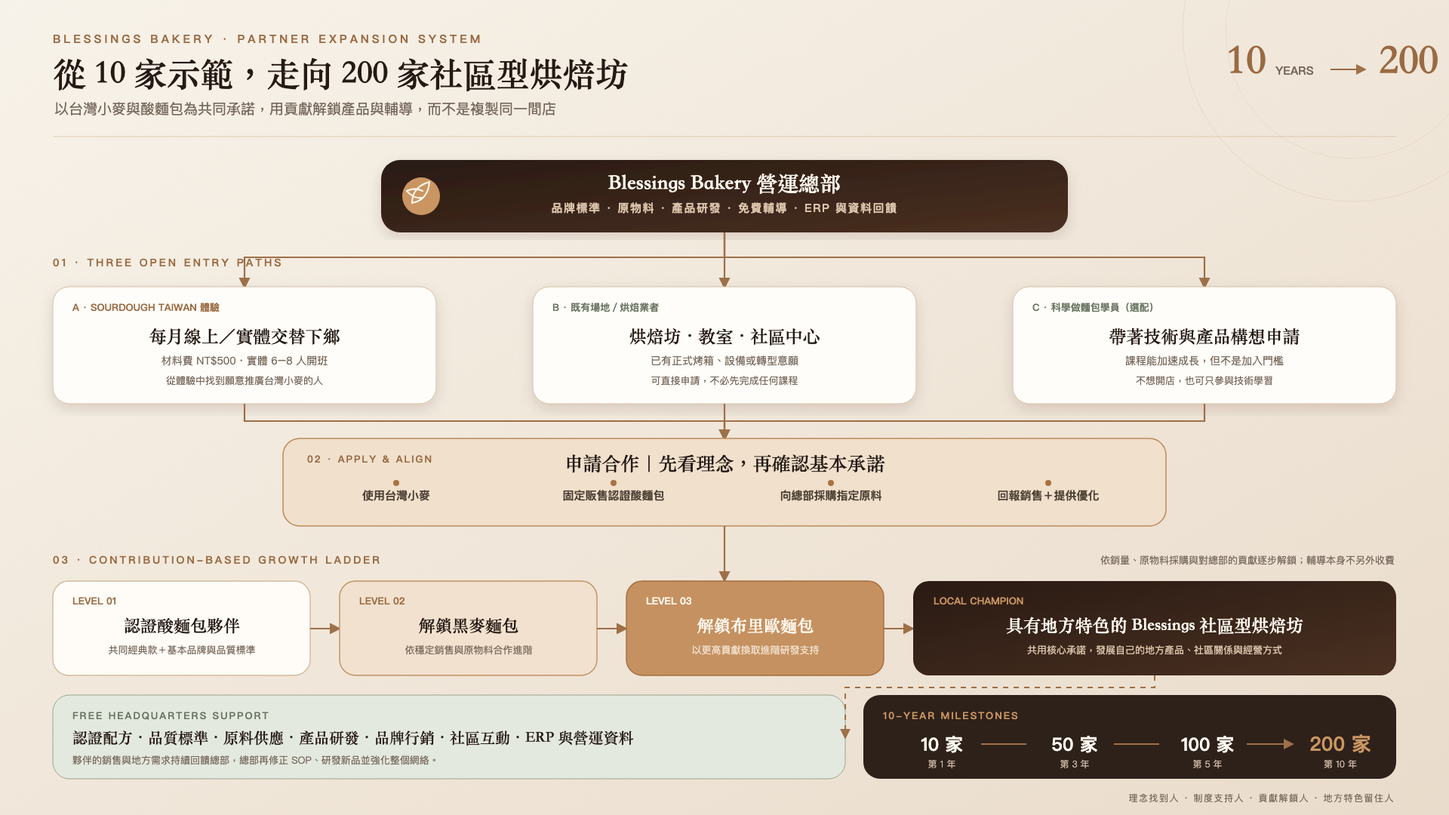
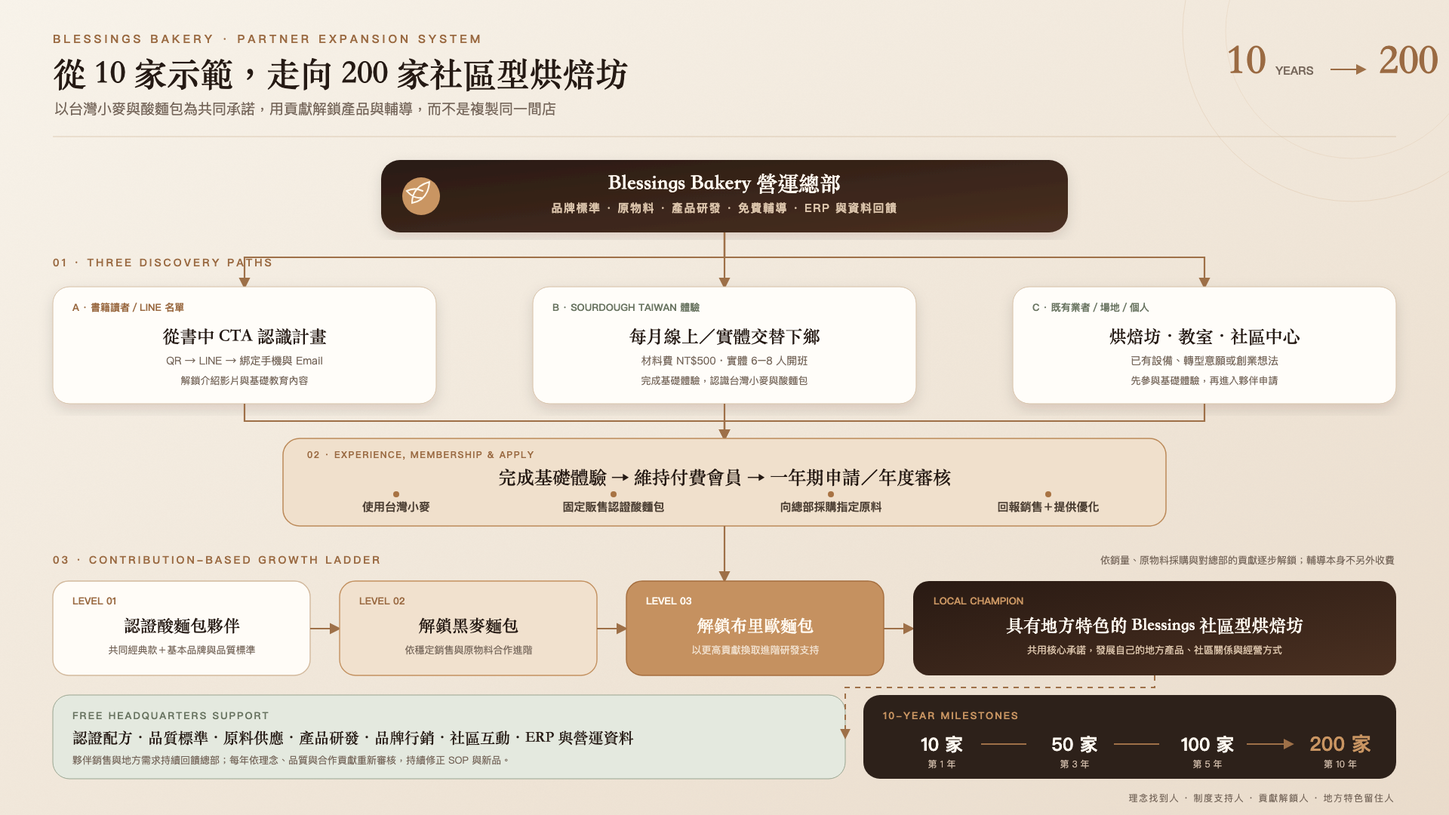
embed AI proposal maps and sync proposal

diff --git a/index.html b/index.html
@@ -4,7 +4,7 @@
   <meta charset="utf-8">
   <meta name="viewport" content="width=device-width,initial-scale=1">
   <title>Blessings Bakery｜一年期知識事業共建提案</title>
-  <meta name="description" content="Blessings Bakery 一年期內容、會員與課程事業共建提案">
+  <meta name="description" content="Blessings Bakery 一年期公開內容、兩級會員與 Sourdough Taiwan 社區工坊共建提案">
   <link rel="stylesheet" href="styles.css">
 </head>
 <body class="proposal-page">
@@ -16,7 +16,7 @@
     <div class="wrap hero-content">
       <div class="mono light">BLESSINGS BAKERY × SAM KNOWLEDGE POWER</div>
       <h1>從一顆麵包<br><em>長成一門事業</em></h1>
-      <p class="hero-lede">把產品、顧客信任與烘焙專業，逐步建成內容、會員、課程與高階服務可以共同運作的知識事業。</p>
+      <p class="hero-lede">把產品、顧客信任與烘焙專業，逐步建成公開內容、兩級會員與社區型烘焙坊可以共同成長的知識事業。</p>
       <div class="actions"><a class="btn fill light-btn" href="#starting-point">查看共建藍圖</a><a class="btn ghost-light" href="#investment">查看合作方案</a></div>
     </div>
     <div class="hero-index"><span>一年期知識事業共建</span><span>2026.10 — 2027.09</span></div>
@@ -28,29 +28,38 @@
   </div></section>
 
   <section class="dark-section" id="method"><div class="wrap">
-    <div class="section-head"><div><div class="mono light">02 / THE METHOD</div><h2>一個月度主題，<br>長出完整的<br>學習與轉換路徑。</h2></div><p>公開內容負責讓更多人知道，免費教育建立信任，會員承接持續發問，入門與進階課程則提供可以被完成的學習成果。</p></div>
-    <div class="method-grid"><article><b>01</b><h3>月度內容母題</h3><p>每月以一個主題統整旗艦長片、4 支短影音、4 則社群圖文與 1 篇 SEO，建立公開流量與搜尋資產。</p></article><article><b>02</b><h3>會員深度內容</h3><p>每月 6 支純會員影片、旗艦延伸內容與一次直播問答，讓觀眾從知道走向持續學習與發問。</p></article><article><b>03</b><h3>課程與夥伴分流</h3><p>快樂做麵包往科學做麵包深化；Sourdough Taiwan 體驗則尋找推廣台灣小麥的社區工坊夥伴。</p></article></div>
+    <div class="section-head"><div><div class="mono light">02 / THE METHOD</div><h2>兩條路線，<br>共用一套內容<br>與會員引擎。</h2></div><p>第一條路線把既有課程重整進兩級 YouTube 會員，累積可持續訂閱收入；第二條路線以 Sourdough Taiwan 推廣台灣小麥，培養社區型烘焙坊。</p></div>
+    <div class="method-grid"><article><b>01</b><h3>書籍與公開內容</h3><p>書籍 QR Code、旗艦長片、4 支短影音、4 則社群圖文與 SEO，把新觀眾帶進 LINE／Email 與 YouTube。</p></article><article><b>02</b><h3>兩級會員核心</h3><p>第一級觀看課程與會員內容；第二級取得直播互動與提問權。價格暫定 250／400 元，正式上線前再確認。</p></article><article><b>03</b><h3>理念夥伴路線</h3><p>Sourdough Taiwan 體驗連到付費會員、申請與年度審核，再以採購、銷售及回饋換取總部輔導與產品解鎖。</p></article></div>
   </div></section>
 
-  <section class="image-story"><div class="wrap image-story-grid"><figure><img src="assets/bread-craft.jpg" alt="職人正在整形酸種麵團" loading="lazy"></figure><div><div class="mono">03 / THE COLLABORATION</div><h2>專業由 Blessings 定義，<br>事業系統由我們共建。</h2><p>就像麵包需要時間發酵，知識事業也需要清楚分工。Sam Knowledge Power 負責內容、影音、課程製作、SEO 與名單經營；Blessings Bakery 負責專業確認、銷售自動化、網站上架維護與 ERP 建構。</p><div class="role-list"><div><b>Blessings Bakery</b><span>烘焙專業・銷售自動化・網站・ERP・工坊營運</span></div><div><b>Sam Knowledge Power</b><span>短影音・旗艦片・會員影片・課程・SEO・LINE／Email</span></div></div></div></div></section>
+  <section class="image-story"><div class="wrap image-story-grid"><figure><img src="assets/bread-craft.jpg" alt="職人正在整形酸種麵團" loading="lazy"></figure><div><div class="mono">03 / THE COLLABORATION</div><h2>專業由 Blessings 定義，<br>會員與推廣系統共同建立。</h2><p>Sam Knowledge Power 負責公開內容、既有課程翻拍、會員內容整理、SEO 與名單經營；Blessings Bakery 負責專業確認、LINE 綁定與網站解鎖、自動化、ERP，以及會員與工坊實際營運。</p><div class="role-list"><div><b>Blessings Bakery</b><span>烘焙專業・會員營運・網站解鎖・ERP・工坊制度</span></div><div><b>Sam Knowledge Power</b><span>短影音・旗艦片・課程翻拍・SEO・LINE／Email</span></div></div></div></div></section>
 
   <section id="roadmap"><div class="wrap">
-    <div class="section-head"><div><div class="mono">04 / 12 MONTH ROADMAP</div><h2>一年走完啟動、<br>測試、深化與移交。</h2></div><p>2026 年 9 月先完成無費用準備期。正式合作從 2026 年 10 月開始，前六個月建立內容與會員測試，後六個月深化課程並完成營運移交。</p></div>
-    <div class="timeline"><article><div class="mono">M0 · 2026.09</div><h3>準備與交接</h3><p>帳號資料、現況基線、內容母題、會員架構、名單入口與第一季排程；不計正式交付。</p></article><article><div class="mono">M1–M3 · 2026.10–12</div><h3>內容與會員啟動</h3><p>建立每月 1 支旗艦、4 支短影音、4 則社群、1 篇 SEO、6 支會員影片與一次直播節奏，年底挑戰 40 位會員。</p></article><article><div class="mono">M4–M6 · 2027.01–03</div><h3>產品與體驗驗證</h3><p>每季推出一門「3 天做出＿＿麵包」，並以線上／實體交替舉辦 Sourdough Taiwan 體驗課。</p></article><article><div class="mono">M7–M12 · 2027.04–09</div><h3>深化與夥伴培育</h3><p>持續會員與科學麵包，建立首批社區型工坊申請、認證、銷售回饋與產品解鎖制度。</p></article></div>
+    <div class="section-head"><div><div class="mono">04 / 12 MONTH ROADMAP</div><h2>一年走完啟動、<br>測試、深化與移交。</h2></div><p>2026 年 9 月先完成無費用準備期。正式合作從 2026 年 10 月開始，前六個月完成既有課程翻拍與會員測試，後六個月深化會員內容、夥伴制度並完成營運移交。</p></div>
+    <div class="timeline"><article><div class="mono">M0 · 2026.09</div><h3>準備與交接</h3><p>盤點既有課程、會員權益、舊學員名單、書籍 QR、LINE 綁定與網站解鎖流程；不計正式交付。</p></article><article><div class="mono">M1–M3 · 2026.10–12</div><h3>幸福烘焙優先翻拍</h3><p>先完成既有幸福烘焙內容翻拍，同步啟動月度公開內容、兩級會員測試與第一場 Sourdough Taiwan 體驗。</p></article><article><div class="mono">M4–M6 · 2027.01–03</div><h3>會員內容庫成形</h3><p>持續整理既有課程進會員專區，驗證 250／400 元分級、觀看、提問、續訂與舊學員權益銜接。</p></article><article><div class="mono">M7–M12 · 2027.04–09</div><h3>夥伴制度與複利驗證</h3><p>建立付費會員申請門檻、年度合作審核、原料採購、銷售回報與產品解鎖；收益閉環於後續會議逐步定案。</p></article></div>
   </div></section>
 
   <section class="cream-section" id="scope"><div class="wrap">
-    <div class="section-head"><div><div class="mono">05 / SCOPE</div><h2>全年正式交付</h2></div><p>每月由同一個知識母題展開公開、搜尋、會員與課程內容，所有產出共同服務知名度、會員、課程收入與夥伴名單。</p></div>
-    <div class="deliverables"><div><strong>48</strong><span>支正式短影音</span><small>每月固定 4 支</small></div><div><strong>48</strong><span>則社群圖文</span><small>每月固定 4 則</small></div><div><strong>12</strong><span>支公開旗艦長片</span><small>每月固定 1 支</small></div><div><strong>72</strong><span>支純會員影片</span><small>每月固定 6 支</small></div><div><strong>12</strong><span>次會員直播</span><small>每月一次，可即時發問</small></div><div><strong>12</strong><span>篇網站／SEO 文稿</span><small>每月固定 1 篇</small></div><div><strong>4</strong><span>門入門課開發</span><small>每季一門「3 天做出＿＿麵包」</small></div><div><strong>12</strong><span>個集中拍攝工作日</span><small>原則每月 1 日</small></div></div>
+    <div class="section-head"><div><div class="mono">05 / SCOPE</div><h2>全年正式交付</h2></div><p>交付重點由「持續開新課」改為「重整既有課程、做大會員內容庫」。會員影片總量與完整翻拍清單列為「待下一次會議確認」，不先納入固定承諾。</p></div>
+    <div class="deliverables"><div><strong>48</strong><span>支正式短影音</span><small>每月固定 4 支，完整腳本製作</small></div><div><strong>48</strong><span>則社群圖文</span><small>每月固定 4 則</small></div><div><strong>12</strong><span>支公開旗艦長片</span><small>每月固定 1 支</small></div><div><strong>6</strong><span>篇網站／SEO 文稿</span><small>全年基準，有合適題目再增加</small></div><div><strong>12</strong><span>次會員直播協作</span><small>每月一次；提問權依會員級別</small></div><div><strong>12</strong><span>場 Sourdough 體驗</span><small>線上／實體月份交替</small></div><div><strong>1</strong><span>套幸福烘焙翻拍</span><small>既有約 5–6 堂優先盤點製作</small></div><div><strong>12</strong><span>個集中拍攝工作日</span><small>原則每月 1 日</small></div></div>
   </div></section>
 
   <section id="assets"><div class="wrap">
     <div class="section-head"><div><div class="mono">06 / BUSINESS ASSETS</div><h2>一年後留下的，<br>不只是一批內容。</h2></div><p>真正能累積的是客戶語言、內容入口、會員學習證據、課程資產與一套可持續運作的執行方法。</p></div>
-    <div class="asset-list"><article><span>01</span><h3>內容與搜尋入口</h3><p>十二個月度主題、旗艦長片、短影音、社群與 SEO 形成可累積的公開資產。</p></article><article><span>02</span><h3>會員內容庫</h3><p>72 支純會員影片、12 次直播問答與旗艦延伸內容，支撐單一會員方案。</p></article><article><span>03</span><h3>課程產品階梯</h3><p>每季一門入門課、YouTube 會員與科學做麵包，形成從 3,500 元到 2–3 萬元的學習路徑。</p></article><article><span>04</span><h3>社區工坊系統</h3><p>Sourdough Taiwan 體驗、理念申請、認證酸麵包、貢獻解鎖與十年 200 家里程碑。</p></article></div>
+    <div class="asset-list"><article><span>01</span><h3>內容與搜尋入口</h3><p>十二個月度主題、旗艦長片、短影音、社群與 SEO 形成可累積的公開資產。</p></article><article><span>02</span><h3>兩級會員內容庫</h3><p>既有課程翻拍、會員深度內容與直播問答，讓收入逐步從單次買斷轉向持續訂閱。</p></article><article><span>03</span><h3>書籍名單與解鎖流程</h3><p>QR Code、LINE 電話／Email 綁定、網站影片解鎖與 YouTube 導流形成可追蹤入口。</p></article><article><span>04</span><h3>社區工坊系統</h3><p>Sourdough Taiwan 體驗、付費會員、年度申請審核、產品解鎖與十年 200 家里程碑。</p></article></div>
+  </div></section>
+
+  <section class="cream-section" id="system-maps"><div class="wrap wide-wrap">
+    <div class="section-head"><div><div class="mono">07 / AI-GENERATED SYSTEM MAPS</div><h2>把一年執行與<br>十年願景放在同一張桌上。</h2></div><p>以下兩張大地圖直接嵌入正式提案：第一張呈現書籍、名單、公開內容與兩級會員如何形成一年複利；第二張呈現 Sourdough Taiwan 如何從基礎體驗、付費會員與年度審核，逐步走向 200 家社區型烘焙坊。</p></div>
+    <div class="proposal-map-stack">
+      <figure class="system-map"><a href="assets/year-one-growth-engine.svg" target="_blank" rel="noopener" title="開啟可放大的向量大地圖"><img src="assets/year-one-growth-engine.svg" alt="Blessings Bakery 一年內容與兩級會員複利引擎" loading="lazy"></a><figcaption>MAP 01｜一年內容與會員複利引擎 · 點擊可放大</figcaption></figure>
+      <figure class="system-map"><a href="assets/partner-expansion-system.svg" target="_blank" rel="noopener" title="開啟可放大的向量大地圖"><img src="assets/partner-expansion-system.svg" alt="Blessings Bakery 十年 200 家社區型烘焙坊合作夥伴擴張系統" loading="lazy"></a><figcaption>MAP 02｜合作夥伴擴張系統 · 點擊可放大</figcaption></figure>
+    </div>
+    <div class="actions"><a class="btn fill" href="map.html">開啟完整地圖說明</a></div>
   </div></section>
 
   <section class="dark-section" id="documents"><div class="wrap">
-    <div class="section-head"><div><div class="mono light">07 / COLLABORATION RESOURCES</div><h2>所有承諾，<br>都有一致的查閱依據。</h2></div><p>提案說明方向，服務書定義規格，契約約定權利邊界，進度表記錄每週真實執行。</p></div>
+    <div class="section-head"><div><div class="mono light">08 / COLLABORATION RESOURCES</div><h2>所有承諾，<br>都有一致的查閱依據。</h2></div><p>提案說明方向，服務書定義規格，契約約定權利邊界，進度表記錄每週真實執行。</p></div>
     <div class="resource-grid">
       <article><div class="mono light">01 · AGREEMENT</div><h3>合作契約</h3><p>付款、權利、終止、履約與智慧財產條款。</p><div class="resource-actions"><a href="https://docs.google.com/document/d/1wVQKVJLxvjaqGIQXbnSYuO2jsxhqQz04KYH2okPHIsk/edit" target="_blank" rel="noopener">正式 Google 文件</a><button type="button" data-preview="contract.html" data-preview-title="合作契約">頁內預覽</button></div></article>
       <article><div class="mono light">02 · SPECIFICATION</div><h3>服務說明書</h3><p>交付規格、雙方分工、修改方式與服務邊界。</p><div class="resource-actions"><a href="https://docs.google.com/document/d/10bF_wMkciBFYMOeUycFGjg626X1vX0cDp7h_rVTFyoI/edit" target="_blank" rel="noopener">正式 Google 文件</a><button type="button" data-preview="service.html" data-preview-title="服務說明書">頁內預覽</button></div></article>
@@ -59,9 +68,9 @@
     </div>
   </div></section>
 
-  <section id="boundaries"><div class="wrap"><div class="section-head"><div><div class="mono">08 / CLEAR BOUNDARIES</div><h2>清楚分工，<br>才能一起走完一年。</h2></div><p>承諾完成可控制的策略、製作、發布協作與紀錄；不以觀看、排名、會員、續訂或營收作空泛保證。</p></div><div class="boundary-grid"><article><h3>專業內容共同確認</h3><p>配方、技術與烘焙判斷由 Blessings Bakery 確認後對外發布。</p></article><article><h3>市場結果不空泛保證</h3><p>如實完成交付與紀錄，但平台與購買結果仍受市場條件影響。</p></article><article><h3>正式資產可持續使用</h3><p>費用付清後，品牌可永久商業使用正式成片與最終文稿。</p></article></div></div></section>
+  <section id="boundaries"><div class="wrap"><div class="section-head"><div><div class="mono">09 / CLEAR BOUNDARIES</div><h2>清楚分工，<br>才能一起走完一年。</h2></div><p>承諾完成可控制的策略、製作、發布協作與紀錄；不以觀看、排名、會員、續訂或營收作空泛保證。</p></div><div class="boundary-grid"><article><h3>專業內容共同確認</h3><p>配方、技術與烘焙判斷由 Blessings Bakery 確認後對外發布。</p></article><article><h3>市場結果不空泛保證</h3><p>如實完成交付與紀錄，但平台與購買結果仍受市場條件影響。</p></article><article><h3>正式資產可持續使用</h3><p>費用付清後，品牌可永久商業使用正式成片與最終文稿。</p></article></div></div></section>
 
-  <section class="investment" id="investment"><div class="wrap investment-grid"><div><div class="mono light">09 / INVESTMENT</div><h2>一年期<br>知識事業共建方案</h2></div><div class="price-card"><span>正式合作期間</span><b>2026.10 — 2027.09</b><span>每月服務費</span><strong>NT$29,000</strong><span>一年總額</span><strong>NT$348,000</strong><small>2026 年 9 月為無費用準備期。廣告、平台、額外拍攝差旅及第三方費用另計。</small></div></div></section>
+  <section class="investment" id="investment"><div class="wrap investment-grid"><div><div class="mono light">10 / INVESTMENT</div><h2>一年期<br>知識事業共建方案</h2></div><div class="price-card"><span>正式合作期間</span><b>2026.10 — 2027.09</b><span>每月服務費</span><strong>NT$29,000</strong><span>一年總額</span><strong>NT$348,000</strong><small>2026 年 9 月為無費用準備期。廣告、平台、額外拍攝差旅及第三方費用另計。</small></div></div></section>
 
   <section class="closing"><div class="wrap"><div class="mono">THE NEXT LOAF</div><h2>把每天累積的手藝，<br>變成能長久傳遞的事業。</h2><p>從第一批公開內容開始，用一年累積信任、問題、案例、會員與課程，讓 Blessings Bakery 的專業走得更遠。</p><a class="btn fill" href="#documents">查看合作文件</a></div></section>
 </main>

diff --git a/service.html b/service.html
@@ -1,13 +1,14 @@
 <!doctype html><html lang="zh-Hant"><head><meta charset="utf-8"><meta name="viewport" content="width=device-width,initial-scale=1"><title>服務說明書｜Blessings Bakery</title><link rel="stylesheet" href="styles.css"><link rel="stylesheet" href="documents.css"></head><body><div data-nav></div>
 <header class="pagehero"><div class="wrap"><div class="eyebrow">Service Specification</div><h1>一年期知識事業共建<br>服務說明書</h1><p class="lede">把十二個月做什麼、做到多少、由誰負責，以及哪些需求需要另外協議，全部寫成可查閱的執行依據。</p><div class="actions"><a class="btn" href="https://docs.google.com/document/d/10bF_wMkciBFYMOeUycFGjg626X1vX0cDp7h_rVTFyoI/edit" target="_blank" rel="noopener">開啟正式 Google 文件</a><a class="btn alt" href="contract.html">查看合作契約</a></div></div></header>
 <main><section><div class="wrap prose"><div class="callout"><strong>文件用途</strong><br>本說明書是合作契約的服務附件，已把交付規格、平台、責任、修改、拍攝、直播、訪談、Google Maps、檔案與排除項目寫清楚；如與正式簽署契約衝突，以契約為準。</div>
-<h2>一　合作目標與產品路徑</h2><p>本案以「提升品牌與麵包知名度」為第一優先，再依序增加 YouTube 會員、課程收入與未來創業夥伴名單。每月由一個知識母題展開公開內容、免費教育、會員深度內容與課程，並以 Sourdough Taiwan 體驗銜接社區型烘焙坊計畫。</p><div class="tablewrap"><table><tr><th>層級</th><th>正式定位</th></tr><tr><td>1　公開流量</td><td>旗艦長片、短影音、社群圖文與 SEO；主要 CTA 依序為訂閱 YouTube、加入 LINE／Email、領取免費內容。</td></tr><tr><td>2　免費教育</td><td>基礎教學影片，以及每月一場、線上與實體交替的 Sourdough Taiwan 基礎體驗課。</td></tr><tr><td>3　快樂做麵包</td><td>「3 天做出＿＿麵包」系列；約 NT$3,500，每季開發一門，每門目標 10–15 位。學員可旁聽直播但不含提問權。</td></tr><tr><td>4　YouTube 會員</td><td>單一等級，暫定 NT$200–250／月；每月 6 支純會員影片、旗艦延伸內容及一次可發問的直播討論。</td></tr><tr><td>5　科學做麵包</td><td>錄播系統課程加直播解題諮詢，約 NT$20,000–30,000；每年以 10 位為服務上限，協助學員開發自己的酸麵包產品。</td></tr><tr><td>平行路線　社區工坊</td><td>Sourdough Taiwan 體驗、既有業者與科學麵包學員皆可另行申請；科學麵包不是加入門檻。</td></tr></table></div><p>十年擴張里程碑為第 1 年 10 家、第 3 年 50 家、第 5 年 100 家、第 10 年 200 家社區型烘焙坊。</p>
-<h2>二　期間與正式交付</h2><p>2026 年 9 月為無費用 M0，僅做交接、基線、一次啟動會議與首季規劃。正式期間為 2026/10/01–2027/09/30，每月 NT$29,000，總額 NT$348,000。新交付規格取代先前版本。</p><div class="tablewrap"><table><tr><th>項目</th><th>數量與規格</th></tr><tr><td>短影音</td><td>全年 48 支，每月固定 4 支、不跨月累積；原則 60 秒內、直式、全程字幕。</td></tr><tr><td>社群圖文</td><td>全年 48 則，每月 4 則；同題適配 IG、Facebook、Threads。</td></tr><tr><td>公開旗艦長片</td><td>全年 12 支，每月固定 1 支；作為當月內容母題與專業權威主體，部分深度內容可延伸至會員專區。</td></tr><tr><td>純會員影片</td><td>全年 72 支，每月固定 6 支；另含當月旗艦延伸內容。</td></tr><tr><td>會員直播</td><td>全年 12 次，每月 1 次；付費會員可參與討論並提出問題。</td></tr><tr><td>網站／SEO 文稿</td><td>全年 12 篇，每月 1 篇；乙方交稿，甲方負責網站上架與技術維護。</td></tr><tr><td>入門課程開發</td><td>全年 4 門，每季完成一門「3 天做出＿＿麵包」的企劃、錄製與剪輯；實際章節數依主題與教學需要確認。</td></tr><tr><td>拍攝</td><td>全年 12 個集中拍攝工作日，原則每月 1 日。</td></tr></table></div>
-<h2>三　平台與製作規格</h2><p>短影音發布於 Instagram Reels、Facebook Reels、YouTube Shorts；Threads 採同題文字適配。旗艦長片、會員影片與直播發布於 YouTube。課程為實用型精簡後製，包含基本剪輯、聲音與色彩整理、重點字幕及章節；不含全片人工逐字校對、複雜動畫、3D、專業科學圖解、多機精修或大量特效。</p>
-<h2>四　會員與學習邊界</h2><p>會員優先服務想在家做麵包者與進階烘焙學習者，以特定主題的持續知識、會員影片與每月直播發問為核心。會員不包含完整個人診斷、全面配方重作、一對一無限制顧問或個人產品開發；需要系統解題與產品開發者，導入科學做麵包。</p>
-<h2>五　名單與 Sourdough Taiwan 體驗</h2><p>公開內容主要 CTA 依序為訂閱 YouTube、加入 LINE／Email 及領取基礎教學影片。Sourdough Taiwan 每月舉辦一場基礎體驗，線上與實體月份交替；線上及實體皆收取材料費 NT$500，實體需由合作方提供適合場地與設備，以 6–8 人開班。體驗活動的教學、材料、場地與招募執行成本不含於本案內容製作月費，除非另有書面約定。</p>
-<h2>六　會員直播</h2><p>會員直播原則每月一次。甲方擔任主講與專業答覆者，乙方負責月度主題整合、內容規劃、宣傳素材及回放整理；固定現場導播、多機直播、額外場地與器材不含於月費。入門課學員可旁聽但不含提問權，付費會員可參與討論並提出問題。</p>
-<h2>七　工作流程與責任</h2><div class="tablewrap"><table><tr><th>責任／步驟</th><th>執行方式</th></tr><tr><td>乙方主要交付</td><td>短影音、旗艦長片、會員影片、社群圖文、SEO 文案、課程錄製與剪輯，以及 LINE／Email 名單經營。</td></tr><tr><td>甲方主要交付</td><td>烘焙專業與內容確認、自動化銷售系統、網站內容上架、網站維護、ERP 系統建構，以及直播主講與專業答覆。</td></tr><tr><td>規劃</td><td>乙方依數據、問題與產品節點提出月度母題；甲方確認專業、產品與銷售資訊。</td></tr><tr><td>準備與拍攝</td><td>甲方準備產品、材料、場地、示範與帳號；乙方整理腳本、拍攝表並集中取得短影音、會員、旗艦及課程素材。</td></tr><tr><td>確認</td><td>乙方交初版；甲方於 7 個工作日內一次彙整意見。</td></tr><tr><td>發布與紀錄</td><td>乙方依權限發布社群／影音或交付成品；甲方負責網站上架。雙方在進度表附上成果連結。</td></tr><tr><td>檢核</td><td>每月觀察觸及、訂閱、名單、會員與購買訊號；每季檢核課程與工坊招募假設。</td></tr></table></div>
-<h2>八　不包含與另行報價</h2><p>廣告預算、平台費、網站設計與程式、技術 SEO、銷售自動化、ERP、金流、客服、出貨、退款、體驗課材料與場地、額外拍攝／差旅／器材／人員、超額內容、逐字稿、重大研究、重新定位、整批重拍、直播固定導播、複雜動畫與多機精修，均不在月費固定範圍。</p>
-<h2>九　檔案與成效邊界</h2><p>正式成品以網路硬碟、進度表或指定平台交付。正式成片與原始素材保存至契約期滿，之後提供 30 日下載窗口；甲方應自行備份。乙方承諾完成約定的策略、製作、發布協作與紀錄，但不保證觀看、粉絲、會員、續訂、搜尋排名、來店、營收或課程銷售。</p>
+<h2>一　合作目標與新版路徑</h2><p>本案以提升品牌與麵包知名度為第一優先，並把既有買斷課程逐步重整為可持續累積的兩級 YouTube 會員內容。另一條 Sourdough Taiwan 路線則透過書籍、體驗與社區合作，培養使用台灣小麥的社區型烘焙坊。原提案中的「3 天做出＿＿麵包」與「科學做麵包」不再作為獨立販售階段。</p><div class="tablewrap"><table><tr><th>階段</th><th>正式定位</th></tr><tr><td>1　書籍／公開流量</td><td>書籍 QR Code、旗艦長片、短影音、社群圖文與 SEO 讓新觀眾認識品牌。</td></tr><tr><td>2　LINE／Email 解鎖</td><td>讀者在 LINE 綁定電話與 Email，由甲方系統開通網站介紹影片及 Sourdough Taiwan 內容。</td></tr><tr><td>3　YouTube 公開頻道</td><td>公開內容建立信任，並以部分課程或實驗內容引導觀眾進入付費會員。</td></tr><tr><td>4　會員第一級</td><td>暫定約 NT$250／月，可觀看重新整理的課程與會員內容，不含直播提問權。</td></tr><tr><td>5　會員第二級</td><td>暫定約 NT$400／月，除內容觀看外，可依指定方式參與直播互動與提問。</td></tr><tr><td>平行路線　Sourdough Taiwan</td><td>基礎體驗後，成為付費會員者可申請年度社區型烘焙坊合作；每年接受資格與合作狀況檢視。</td></tr></table></div><p>會員價格、各級完整權益、舊學員的技術操作方式，以及收益閉環，均標記為下一次會議確認。十年工坊里程碑維持第 1 年 10 家、第 3 年 50 家、第 5 年 100 家、第 10 年 200 家。</p>
+<h2>二　期間與正式交付</h2><p>2026 年 9 月為無費用 M0，僅做交接、基線、一次啟動會議與首季規劃。正式期間為 2026/10/01–2027/09/30，每月 NT$29,000，總額 NT$348,000。下列新版交付取代先前「每季開一門新課、72 支純會員影片、12 篇 SEO」版本。</p><div class="tablewrap"><table><tr><th>項目</th><th>數量與規格</th></tr><tr><td>短影音</td><td>全年 48 支，每月固定 4 支、不跨月累積；具完整腳本，原則 60 秒內、直式、全程字幕。直播衍生剪輯不計入此數量。</td></tr><tr><td>社群圖文</td><td>全年 48 則，每月 4 則；同題適配 Instagram、Facebook、Threads。</td></tr><tr><td>公開旗艦長片</td><td>全年 12 支，每月固定 1 支；第一年度優先從既有課程內容翻拍，並設計公開／會員內容切角。</td></tr><tr><td>網站／SEO 文稿</td><td>全年基準 6 篇；以課程翻拍與月度母題延伸，有適合題目時得增加，但增加部分不形成固定保證數量。</td></tr><tr><td>既有課程翻拍</td><td>第一階段優先完成幸福烘焙既有約 5–6 堂內容之翻拍與剪輯；其餘既有課程依盤點與年度排程逐步整理進會員專區。</td></tr><tr><td>會員直播協作</td><td>原則全年 12 次、每月 1 次；甲方主講，乙方協助月度主題、宣傳與回放整理。第一級旁聽、第二級提問的操作方式待確認。</td></tr><tr><td>Sourdough Taiwan 體驗</td><td>原則全年 12 場、每月 1 場，線上與實體月份交替；活動執行、教學、材料及場地成本不含於內容製作月費。</td></tr><tr><td>集中拍攝</td><td>全年 12 個工作日，原則每月 1 日；幸福烘焙翻拍月可依製程安排連續拍攝。</td></tr></table></div>
+<h2>三　平台與製作規格</h2><p>短影音發布於 Instagram Reels、Facebook Reels、YouTube Shorts；Threads 採同題文字適配。旗艦長片、會員內容與直播以 YouTube 為主，舊買斷學員所需的重複上傳或獨立課程頁由甲方系統承接。影片採實用型精簡後製，包含基本剪輯、聲音與色彩整理、重點字幕及章節；不含複雜動畫、3D、專業科學圖解、多機精修或大量特效。</p>
+<h2>四　會員與舊學員權益</h2><p>兩級會員均可觀看課程與會員內容，第一級不含提問，第二級得依甲方公布方式參與直播互動。幸福烘焙與不敗等原買斷學員保留原已承諾的終身觀看與提問權；甲方負責舊學員名單、登入權限、表單或 Google Meet／課程頁等實際技術安排。會員影片的年度固定數量尚未確認，不列為本版固定交付。</p>
+<h2>五　書籍名單與 Sourdough Taiwan 體驗</h2><p>書籍讀者掃描 QR Code 後進入 LINE，完成電話與 Email 綁定，再由甲方既有系統開通網站介紹影片、書籍附加影片及 Sourdough Taiwan 內容。體驗原則每月一場、線上與實體月份交替；線上及實體皆暫定材料費 NT$500，實體由申請單位提供符合規格的場地與設備，原則 6–8 人開班。</p>
+<h2>六　社區型烘焙坊申請與年度審核</h2><p>申請者原則須完成 Sourdough Taiwan 基礎體驗並維持付費會員資格，再提出一年期合作申請。合作夥伴應使用台灣小麥、固定販售認證酸麵包、向總部採購指定原料、回報銷售與問題，並接受品管與年度檢視。總部依採購、銷售、回饋及合作貢獻，逐步提供黑麥、布里歐等產品解鎖與品牌、研發、行銷、社區互動及 ERP 輔導。</p>
+<h2>七　工作流程與責任</h2><div class="tablewrap"><table><tr><th>責任／步驟</th><th>執行方式</th></tr><tr><td>乙方主要交付</td><td>短影音、旗艦長片、社群圖文、SEO 文案、既有課程翻拍與剪輯，以及 LINE／Email 名單內容經營。</td></tr><tr><td>甲方主要交付</td><td>烘焙專業與內容確認、兩級會員設定、舊學員權限、LINE 電話／Email 綁定、網站影片解鎖、自動化、ERP，以及直播與工坊營運。</td></tr><tr><td>規劃</td><td>乙方依既有課程、觀眾問題與 Sourdough Taiwan 節點提出月度母題；甲方確認專業、產品與會員資訊。</td></tr><tr><td>準備與拍攝</td><td>甲方準備既有教材、產品、麵糰、材料、場地與示範；乙方整理翻拍順序、腳本與拍攝表。</td></tr><tr><td>確認</td><td>乙方交初版；甲方於 7 個工作日內一次彙整意見。</td></tr><tr><td>發布與紀錄</td><td>乙方依權限發布公開內容或交付成品；甲方負責會員、網站與舊學員權限上架，雙方更新進度表。</td></tr><tr><td>檢核</td><td>每月觀察公開觸及、名單、兩級會員與續訂；每季檢查工坊申請、採購、銷售回報及待確認的收益閉環。</td></tr></table></div>
+<h2>八　不包含與另行報價</h2><p>廣告預算、YouTube／網站／寄信等平台費、會員與舊學員權限程式、LINE 綁定、自動化、ERP、金流、客服、出貨、退款、體驗課材料與場地、額外拍攝／差旅／器材／人員、未確認數量的會員影片、超額內容、逐字稿、整批重拍、直播固定導播、複雜動畫與多機精修，均不在月費固定範圍。</p>
+<div class="callout"><strong>待下一次會議確認</strong><br>兩級會員正式價格與權益、會員影片年度數量、舊學員直播操作、完整課程翻拍清單，以及會員／原料／工坊如何形成可持續收益閉環。</div>
+<h2>九　檔案與成效邊界</h2><p>正式成品以網路硬碟、進度表或指定平台交付；提案大地圖及後續流程圖採 AI 生成的可更新 SVG／PNG 圖像交付。正式成片與原始素材保存至契約期滿，之後提供 30 日下載窗口；甲方應自行備份。乙方承諾完成約定的策略、製作、發布協作與紀錄，但不保證觀看、粉絲、會員、續訂、搜尋排名、來店、營收或課程銷售。</p>
 </div></section></main><div data-footer></div><script src="site.js"></script></body></html>

diff --git a/progress.js b/progress.js
@@ -1,18 +1,18 @@
 const months=[
-  {id:1,title:'正式啟動與第一個月度母題',focus:'建立內容、名單與會員的固定節奏',tasks:['集中拍攝工作日 01','公開旗艦長片 01','短影音第 1–4 支','社群圖文第 1–4 則','SEO 文稿 01','純會員影片第 1–6 支＋旗艦延伸內容','會員直播 01','Sourdough Taiwan 線上體驗 01','LINE／Email 名單入口與免費影片上線']},
-  {id:2,title:'知名度與名單承接',focus:'把公開觸及帶到 YouTube 與自有名單',tasks:['集中拍攝工作日 02','公開旗艦長片 02','短影音第 5–8 支','社群圖文第 5–8 則','SEO 文稿 02','純會員影片第 7–12 支＋旗艦延伸內容','會員直播 02','Sourdough Taiwan 實體體驗 01','YouTube 訂閱與名單加入路徑檢核']},
-  {id:3,title:'第一季產品驗證',focus:'完成第一門入門課並檢查會員成長',tasks:['集中拍攝工作日 03','公開旗艦長片 03','短影音第 9–12 支','社群圖文第 9–12 則','SEO 文稿 03','純會員影片第 13–18 支＋旗艦延伸內容','會員直播 03','Sourdough Taiwan 線上體驗 02','第 1 門「3 天做出＿＿麵包」完成','第一季成果檢核／2026 年底 40 位會員里程碑']},
-  {id:4,title:'會員內容深化',focus:'穩定單一會員方案與直播問答',tasks:['集中拍攝工作日 04','公開旗艦長片 04','短影音第 13–16 支','社群圖文第 13–16 則','SEO 文稿 04','純會員影片第 19–24 支＋旗艦延伸內容','會員直播 04','Sourdough Taiwan 實體體驗 02','會員觀看、發問與續訂觀察']},
-  {id:5,title:'免費教育與轉換優化',focus:'優化基礎影片、名單培育與課程承接',tasks:['集中拍攝工作日 05','公開旗艦長片 05','短影音第 17–20 支','社群圖文第 17–20 則','SEO 文稿 05','純會員影片第 25–30 支＋旗艦延伸內容','會員直播 05','Sourdough Taiwan 線上體驗 03','LINE／Email 免費教育序列優化']},
-  {id:6,title:'第二季課程與工坊名單',focus:'推出第二門入門課並建立夥伴申請入口',tasks:['集中拍攝工作日 06','公開旗艦長片 06','短影音第 21–24 支','社群圖文第 21–24 則','SEO 文稿 06','純會員影片第 31–36 支＋旗艦延伸內容','會員直播 06','Sourdough Taiwan 實體體驗 03','第 2 門「3 天做出＿＿麵包」完成','社區型烘焙坊申請與基本承諾頁面完成']},
-  {id:7,title:'首批夥伴培育',focus:'從體驗、既有業者與學員中篩選理念夥伴',tasks:['集中拍攝工作日 07','公開旗艦長片 07','短影音第 25–28 支','社群圖文第 25–28 則','SEO 文稿 07','純會員影片第 37–42 支＋旗艦延伸內容','會員直播 07','Sourdough Taiwan 線上體驗 04','夥伴申請／理念／設備初步盤點']},
-  {id:8,title:'認證與營運資料測試',focus:'測試認證酸麵包、指定原料與銷售回報',tasks:['集中拍攝工作日 08','公開旗艦長片 08','短影音第 29–32 支','社群圖文第 29–32 則','SEO 文稿 08','純會員影片第 43–48 支＋旗艦延伸內容','會員直播 08','Sourdough Taiwan 實體體驗 04','首批夥伴銷售回報與 ERP 欄位協作']},
-  {id:9,title:'第三季產品解鎖驗證',focus:'完成第三門課並測試夥伴分級條件',tasks:['集中拍攝工作日 09','公開旗艦長片 09','短影音第 33–36 支','社群圖文第 33–36 則','SEO 文稿 09','純會員影片第 49–54 支＋旗艦延伸內容','會員直播 09','Sourdough Taiwan 線上體驗 05','第 3 門「3 天做出＿＿麵包」完成','黑麥／布里歐解鎖條件草案']},
-  {id:10,title:'內容與夥伴案例擴散',focus:'用真實學習與工坊案例擴大品牌信任',tasks:['集中拍攝工作日 10','公開旗艦長片 10','短影音第 37–40 支','社群圖文第 37–40 則','SEO 文稿 10','純會員影片第 55–60 支＋旗艦延伸內容','會員直播 10','Sourdough Taiwan 實體體驗 05','學員／工坊案例內容整理']},
-  {id:11,title:'年度制度收斂',focus:'整理可持續執行的內容與夥伴 SOP',tasks:['集中拍攝工作日 11','公開旗艦長片 11','短影音第 41–44 支','社群圖文第 41–44 則','SEO 文稿 11','純會員影片第 61–66 支＋旗艦延伸內容','會員直播 11','Sourdough Taiwan 線上體驗 06','內容、會員、名單與夥伴培育 SOP 初稿']},
-  {id:12,title:'全年交付與下一年度擴張',focus:'完成第四門課、年度移交與 10 家目標檢核',tasks:['集中拍攝工作日 12','公開旗艦長片 12','短影音第 45–48 支','社群圖文第 45–48 則','SEO 文稿 12','純會員影片第 67–72 支＋旗艦延伸內容','會員直播 12','Sourdough Taiwan 實體體驗 06','第 4 門「3 天做出＿＿麵包」完成','正式成品與執行紀錄移交','首年 10 家社區型烘焙坊目標檢核']}
+  {id:1,title:'正式啟動與幸福烘焙翻拍',focus:'先把既有內容變成會員核心資產',tasks:['集中拍攝工作日 01','幸福烘焙既有 5–6 堂盤點','幸福烘焙第一批翻拍','公開旗艦長片 01','短影音第 1–4 支','社群圖文第 1–4 則','會員直播協作 01','Sourdough Taiwan 線上體驗 01','書籍 QR／LINE／Email／網站解鎖流程確認']},
+  {id:2,title:'兩級會員與公開導流',focus:'建立內容觀看與直播提問兩種權益',tasks:['集中拍攝工作日 02','幸福烘焙第二批翻拍','公開旗艦長片 02','短影音第 5–8 支','社群圖文第 5–8 則','SEO 文稿 01','會員直播協作 02','Sourdough Taiwan 實體體驗 01','250／400 元與權益標示待會議確認']},
+  {id:3,title:'第一季讀回與舊學員銜接',focus:'驗證會員內容與原買斷權益能否並存',tasks:['集中拍攝工作日 03','幸福烘焙翻拍收斂','公開旗艦長片 03','短影音第 9–12 支','社群圖文第 9–12 則','會員直播協作 03','Sourdough Taiwan 線上體驗 02','舊學員觀看／提問技術流程測試','2026 年底會員里程碑檢核']},
+  {id:4,title:'既有課程會員化',focus:'依盤點逐步整理下一批既有內容',tasks:['集中拍攝工作日 04','下一批既有課程翻拍 01','公開旗艦長片 04','短影音第 13–16 支','社群圖文第 13–16 則','SEO 文稿 02','會員直播協作 04','Sourdough Taiwan 實體體驗 02','會員觀看／提問／續訂觀察']},
+  {id:5,title:'書籍名單與轉換優化',focus:'優化 LINE 綁定、影片解鎖與會員 CTA',tasks:['集中拍攝工作日 05','下一批既有課程翻拍 02','公開旗艦長片 05','短影音第 17–20 支','社群圖文第 17–20 則','會員直播協作 05','Sourdough Taiwan 線上體驗 03','書籍讀者解鎖與付費會員轉換檢核']},
+  {id:6,title:'夥伴申請制度建立',focus:'把體驗、付費會員與年度申請接起來',tasks:['集中拍攝工作日 06','公開旗艦長片 06','短影音第 21–24 支','社群圖文第 21–24 則','SEO 文稿 03','會員直播協作 06','Sourdough Taiwan 實體體驗 03','付費會員申請門檻頁面','一年期合作與年度審核草案']},
+  {id:7,title:'首批理念夥伴培育',focus:'從體驗與會員中篩選社區型烘焙坊',tasks:['集中拍攝工作日 07','既有課程翻拍依盤點執行','公開旗艦長片 07','短影音第 25–28 支','社群圖文第 25–28 則','會員直播協作 07','Sourdough Taiwan 線上體驗 04','夥伴理念／場地／設備初步盤點']},
+  {id:8,title:'認證與營運資料測試',focus:'測試原料、銷售、回報與品管循環',tasks:['集中拍攝工作日 08','公開旗艦長片 08','短影音第 29–32 支','社群圖文第 29–32 則','SEO 文稿 04','會員直播協作 08','Sourdough Taiwan 實體體驗 04','首批夥伴銷售回報與 ERP 欄位協作']},
+  {id:9,title:'產品解鎖與年度規範',focus:'建立黑麥／布里歐與年度審核條件',tasks:['集中拍攝工作日 09','既有課程翻拍依盤點執行','公開旗艦長片 09','短影音第 33–36 支','社群圖文第 33–36 則','會員直播協作 09','Sourdough Taiwan 線上體驗 05','黑麥／布里歐解鎖條件草案','年度審核規範草案']},
+  {id:10,title:'內容與夥伴案例擴散',focus:'用真實會員與工坊案例擴大信任',tasks:['集中拍攝工作日 10','公開旗艦長片 10','短影音第 37–40 支','社群圖文第 37–40 則','SEO 文稿 05','會員直播協作 10','Sourdough Taiwan 實體體驗 05','會員／工坊案例內容整理']},
+  {id:11,title:'收益閉環討論與制度收斂',focus:'只把已驗證的收益關係寫入正式制度',tasks:['集中拍攝工作日 11','公開旗艦長片 11','短影音第 41–44 支','社群圖文第 41–44 則','會員直播協作 11','Sourdough Taiwan 線上體驗 06','會員／原料／工坊收益閉環會議','內容、會員與夥伴 SOP 初稿']},
+  {id:12,title:'全年交付與下一年度擴張',focus:'完成移交、年度審核與 10 家目標檢核',tasks:['集中拍攝工作日 12','公開旗艦長片 12','短影音第 45–48 支','社群圖文第 45–48 則','SEO 文稿 06','會員直播協作 12','Sourdough Taiwan 實體體驗 06','既有課程翻拍清單與完成度結算','正式成品與執行紀錄移交','首年 10 家社區型烘焙坊目標檢核']}
 ];
-const metrics=[['短影音',0,48],['社群圖文',0,48],['旗艦長片',0,12],['純會員影片',0,72],['會員直播',0,12],['SEO 文稿',0,12],['入門課程',0,4],['Sourdough 體驗',0,12]];
+const metrics=[['短影音',0,48],['社群圖文',0,48],['旗艦長片',0,12],['SEO 文稿',0,6],['會員直播協作',0,12],['Sourdough 體驗',0,12],['幸福烘焙翻拍',0,1],['拍攝工作日',0,12]];
 document.querySelector('#metrics').innerHTML=metrics.map(([label,n,total])=>`<article class="metric"><strong>${n} / ${total}</strong><span>${label}</span><div class="bar"><i style="--p:${Math.min(100,n/total*100)}%"></i></div></article>`).join('');
 const dates=['2026.10','2026.11','2026.12','2027.01','2027.02','2027.03','2027.04','2027.05','2027.06','2027.07','2027.08','2027.09'];
 document.querySelector('#progress-months').innerHTML=months.map(m=>`<details class="month"><summary><div class="month-num">${String(m.id).padStart(2,'0')}<small>${dates[m.id-1]}</small></div><div class="month-title">${m.title}</div><div class="month-focus">${m.focus}</div><div class="month-progress">0 / ${m.tasks.length}</div><div class="chev">▶</div></summary><div class="month-body">${m.tasks.map(name=>`<div class="task"><span class="check"></span><span class="task-name">${name}</span><span class="task-links"><span class="task-state">尚未開始</span></span></div>`).join('')}</div></details>`).join('');

diff --git a/contract.html b/contract.html
@@ -1,10 +1,10 @@
 <!doctype html><html lang="zh-Hant"><head><meta charset="utf-8"><meta name="viewport" content="width=device-width,initial-scale=1"><title>合作契約｜Blessings Bakery</title><link rel="stylesheet" href="styles.css"><link rel="stylesheet" href="documents.css"></head><body><div data-nav></div>
-<header class="pagehero"><div class="wrap"><div class="eyebrow">Agreement Draft</div><h1>一年期知識事業共建<br>合作契約</h1><p class="lede">不是提案摘要，而是可供雙方逐條確認的完整契約草案。正式簽署前只需補齊甲方主體、通知方式與管轄法院。</p><div class="actions"><a class="btn" href="https://docs.google.com/document/d/1wVQKVJLxvjaqGIQXbnSYuO2jsxhqQz04KYH2okPHIsk/edit" target="_blank" rel="noopener">開啟正式 Google 文件</a><a class="btn alt" href="service.html">查看服務說明書</a></div></div></header>
-<main><section><div class="wrap prose"><div class="callout"><strong>文件狀態</strong><br>完整草案已納入期間、付款、新版固定交付、月度內容母題、拍攝、發布、會員直播、課程開發、LINE／Email、驗收、智慧財產、檔案保存、保密、AI、作品集、成果邊界、終止與不可抗力。正式簽署以 Google 文件正式版為準。</div>
-<h2>核心商務條件</h2><div class="tablewrap"><table><tr><th>項目</th><th>約定</th></tr><tr><td>準備期</td><td>2026/09/01–09/30，無費用；限交接、基線、啟動會議與首季規劃，不產生正式交付。</td></tr><tr><td>正式期間</td><td>2026/10/01–2027/09/30，共 12 個月。</td></tr><tr><td>服務費</td><td>每月 NT$29,000，十二個月總額 NT$348,000；每月 5 日前預付。</td></tr><tr><td>正式交付</td><td>48 支短影音、48 則社群圖文、12 支旗艦長片、72 支純會員影片、12 次會員直播、12 篇 SEO 文稿、4 門入門課開發及 12 個集中拍攝工作日。</td></tr><tr><td>雙方分工</td><td>乙方負責內容、影音、課程製作、SEO 與名單經營；甲方負責專業確認、銷售自動化、網站上架維護與 ERP 建構。</td></tr></table></div>
-<h2>完整條款目錄</h2><div class="clause-grid"><ol><li>契約目的與名詞</li><li>期間與準備期</li><li>服務費與付款</li><li>固定交付範圍</li><li>策略、產品與內容方向</li><li>拍攝、行程與取消</li><li>平台、發布與帳號</li><li>直播與會員服務</li><li>LINE／Email 名單與個資</li><li>課程及 Sourdough Taiwan 體驗</li><li>甲方協力義務</li></ol><ol start="12"><li>交付、驗收與修改</li><li>第三方服務與額外費用</li><li>智慧財產權</li><li>檔案交付與保存</li><li>保密、AI 與作品集</li><li>成果與風險邊界</li><li>違約、暫停與提前終止</li><li>不可抗力</li><li>通知、變更與完整合意</li><li>準據法與管轄</li><li>簽署</li></ol></div>
+<header class="pagehero"><div class="wrap"><div class="eyebrow">Agreement Draft</div><h1>一年期知識事業共建<br>合作契約</h1><p class="lede">甲方簽約名稱已確認為「麥芮忻烘焙廚房」，品牌名稱為 Blessings Bakery。正式簽署前仍需補齊統一編號、地址、通知方式與管轄法院。</p><div class="actions"><a class="btn" href="https://docs.google.com/document/d/1wVQKVJLxvjaqGIQXbnSYuO2jsxhqQz04KYH2okPHIsk/edit" target="_blank" rel="noopener">開啟正式 Google 文件</a><a class="btn alt" href="service.html">查看服務說明書</a></div></div></header>
+<main><section><div class="wrap prose"><div class="callout"><strong>文件狀態</strong><br>本版依最新會議結論改為「兩級 YouTube 會員＋Sourdough Taiwan 年度夥伴」雙路線，刪除獨立販售的快樂做麵包與科學做麵包。未定案項目不構成固定承諾，正式簽署以 Google 文件正式版為準。</div>
+<h2>核心商務條件</h2><div class="tablewrap"><table><tr><th>項目</th><th>約定</th></tr><tr><td>準備期</td><td>2026/09/01–09/30，無費用；盤點課程、會員、舊學員名單、書籍入口與首季規劃，不產生正式交付。</td></tr><tr><td>正式期間</td><td>2026/10/01–2027/09/30，共 12 個月。</td></tr><tr><td>服務費</td><td>每月 NT$29,000，十二個月總額 NT$348,000；每月 5 日前預付。</td></tr><tr><td>正式交付</td><td>48 支短影音、48 則社群圖文、12 支旗艦長片、6 篇 SEO 文稿、幸福烘焙既有內容優先翻拍、12 次會員直播協作、12 場 Sourdough Taiwan 體驗規劃及 12 個集中拍攝工作日。</td></tr><tr><td>不列固定數量</td><td>會員影片總量、其餘既有課程翻拍堂數、直播衍生剪輯及新增 SEO，須依盤點與後續書面確認。</td></tr><tr><td>雙方分工</td><td>乙方負責內容與課程翻拍；甲方負責專業、兩級會員、舊學員權限、LINE／Email 綁定、網站解鎖、自動化與 ERP。</td></tr></table></div>
+<h2>完整條款目錄</h2><div class="clause-grid"><ol><li>契約目的與名詞</li><li>期間與準備期</li><li>服務費與付款</li><li>新版固定交付範圍</li><li>兩級會員與課程翻拍</li><li>拍攝、行程與取消</li><li>平台、發布與帳號</li><li>會員直播與舊學員權益</li><li>書籍、LINE／Email 與個資</li><li>Sourdough Taiwan 體驗及年度夥伴</li><li>甲方協力義務</li></ol><ol start="12"><li>交付、驗收與修改</li><li>第三方服務與額外費用</li><li>智慧財產權</li><li>檔案交付與保存</li><li>保密、AI 與作品集</li><li>成果與風險邊界</li><li>違約、暫停與提前終止</li><li>不可抗力</li><li>通知、變更與完整合意</li><li>準據法與管轄</li><li>簽署</li></ol></div>
 <h2>拍攝與排程</h2><p>全年 12 個集中拍攝工作日，原則每月 1 日。可前後調整或累積，但任一時間最多累積 2 日，並須於原月份後 3 個月內使用。因甲方原因到期未用者失效；因乙方原因未完成者補拍或協議順延。甲方於拍攝日前 7 日內取消，原則視為已使用，不可抗力除外。</p><p>每月一次往返竹北含於月費。區域行程雖可能三天兩夜，本案只計其中一個拍攝工作日；住宿及其他日期不屬服務工時。額外往返、地點、棚租、器材或無法提供住宿時另議。</p>
-<h2>驗收與修改</h2><p>短影音、社群圖文、SEO 文稿、會員影片、旗艦長片與課程影片，每件含 2 次整合修改。甲方於交付後 7 個工作日內一次彙整意見；逾期視為該版確認。錯字、字幕、合理節奏與既定方向小幅調整屬免費修改；換題、重大重剪、重拍、新增版本、複雜動畫或新規格另議。</p>
+<h2>驗收與修改</h2><p>短影音、社群圖文、SEO 文稿、旗艦長片與已列入翻拍清單的課程影片，每件含 2 次整合修改。甲方於交付後 7 個工作日內一次彙整意見；逾期視為該版確認。換題、重大重剪、重拍、新增會員影片數量、擴大課程清單、複雜動畫或新規格另議。</p>
 <h2>智慧財產與檔案</h2><p>甲方原有品牌、配方、烘焙技術、教材與專業知識仍歸甲方。對應費用付清後，甲方可永久商業使用正式成片與最終文稿。乙方的模板、方法、企劃框架、未採用草稿、剪輯專案檔、付費字型與外掛不自動移轉。</p><p>正式成片與原始拍攝素材保存至正式契約期滿；期滿或終止後提供 30 日下載／移轉窗口。期限後乙方得刪除，甲方應自行完成備份。</p>
-<h2>終止與成果邊界</h2><p>任一方提前終止應提前 30 日書面通知。已完成、進行中、已排定且無法取消的工作仍須結算。甲方在無乙方重大違約下提前終止，另支付一個月服務費 NT$29,000 作中止及產能補償；乙方重大違約並經合理改善期仍未改善時，甲方得免付該補償。</p><p>乙方負責完成可控制的策略、製作、發布協作與紀錄，但不保證觀看、粉絲、會員、續訂、搜尋排名、來店、營收或課程銷售。完整定義與例外請以下載文件逐條確認。</p>
+<h2>終止與成果邊界</h2><p>任一方提前終止應提前 30 日書面通知。已完成、進行中、已排定且無法取消的工作仍須結算。甲方在無乙方重大違約下提前終止，另支付一個月服務費 NT$29,000 作中止及產能補償；乙方重大違約並經合理改善期仍未改善時，甲方得免付該補償。</p><p>乙方不保證會員人數、續訂、原料收益、工坊家數或收益閉環。兩級會員價格與權益、會員影片總量、舊學員直播操作及完整課程翻拍清單，均列為「待下一次會議確認」，須經後續會議及書面確認後，才成為正式履約依據。</p>
 </div></section></main><div data-footer></div><script src="site.js"></script></body></html>

diff --git a/map.html b/map.html
@@ -3,24 +3,24 @@
 <head>
   <meta charset="utf-8">
   <meta name="viewport" content="width=device-width,initial-scale=1">
-  <meta name="description" content="Blessings Bakery 一年內容成長引擎與十年 200 家社區型烘焙坊擴張地圖">
+  <meta name="description" content="Blessings Bakery AI 生成的一年內容與兩級會員引擎，以及十年 200 家社區型烘焙坊擴張地圖">
   <title>完整事業地圖｜Blessings Bakery</title>
   <link rel="stylesheet" href="styles.css">
 </head>
 <body>
 <div data-nav></div>
-<header class="pagehero"><div class="wrap"><div class="eyebrow">Business System Maps</div><h1>今年怎麼做，<br>十年後走到哪裡</h1><p class="lede">兩張相互連接的地圖：第一張說清楚十二個月的內容、會員與課程執行；第二張說清楚如何把理念夥伴培育成 200 家社區型烘焙坊。</p></div></header>
+<header class="pagehero"><div class="wrap"><div class="eyebrow">AI-Generated Business System Maps</div><h1>今年怎麼做，<br>十年後走到哪裡</h1><p class="lede">兩張相互連接的地圖：第一張說清楚十二個月的內容與兩級會員；第二張說清楚如何從基礎體驗、付費會員與年度審核，培育出 200 家社區型烘焙坊。本案及後續專案流程圖均採 AI 生成、可持續更新的 SVG／PNG 圖像交付。</p></div></header>
 <main>
   <section class="map-section"><div class="wrap wide-wrap">
-    <div class="section-head"><div><div class="mono">MAP 01 / YEAR ONE</div><h2>一年內容、會員<br>與課程成長引擎</h2></div><p>每月以一個主題統整旗艦長片、短影音、社群、SEO 與會員深度內容，再把觀眾帶往免費教育、入門課、會員與科學做麵包。</p></div>
-    <figure class="system-map"><a href="assets/year-one-growth-engine.svg" target="_blank" title="點擊開啟可放大 SVG"><img src="assets/year-one-growth-engine.svg" alt="Blessings Bakery 一年內容、會員與課程成長引擎完整架構圖"></a><figcaption>點擊圖片可在新分頁開啟向量版本並自由放大。</figcaption></figure>
-    <div class="map-notes"><article><span>核心優先</span><h3>先讓更多人知道</h3><p>今年依序追求品牌與麵包知名度、YouTube 會員、課程收入，以及未來創業夥伴名單。</p></article><article><span>兩條路線</span><h3>學習與使命可以交會</h3><p>快樂做麵包往科學麵包深化；Sourdough Taiwan 體驗則直接銜接工坊申請，兩者不互相綁定。</p></article><article><span>每月母題</span><h3>一份知識多層轉譯</h3><p>同一主題從公開觸及、免費理解、會員發問到課程實作，減少各平台各做各的分散成本。</p></article></div>
+    <div class="section-head"><div><div class="mono">MAP 01 / YEAR ONE</div><h2>一年內容與<br>會員複利引擎</h2></div><p>書籍與公開內容先取得自有名單，再把既有課程重整進兩級 YouTube 會員；不再以持續開發獨立新課作為主要收入模型。</p></div>
+    <figure class="system-map"><a href="assets/year-one-growth-engine.svg" target="_blank" title="點擊開啟可放大 SVG"><img src="assets/year-one-growth-engine.svg" alt="Blessings Bakery 一年內容與兩級會員複利引擎完整架構圖"></a><figcaption>點擊圖片可在新分頁開啟向量版本並自由放大。</figcaption></figure>
+    <div class="map-notes"><article><span>核心優先</span><h3>既有知識變會員資產</h3><p>第一年先翻拍幸福烘焙等既有內容，讓付費會員持續累積，而不是每季再開一門新課。</p></article><article><span>兩級會員</span><h3>觀看與提問分開</h3><p>第一級觀看內容，第二級取得直播互動；價格與完整權益標為下一次會議確認。</p></article><article><span>名單入口</span><h3>書籍到網站再到會員</h3><p>QR Code → LINE／Email 綁定 → 網站影片解鎖 → YouTube 公開頻道 → 付費會員。</p></article></div>
   </div></section>
 
   <section class="map-section dark-section"><div class="wrap wide-wrap">
     <div class="section-head"><div><div class="mono light">MAP 02 / TEN YEARS</div><h2>合作夥伴<br>擴張系統</h2></div><p>工坊合作不是加盟複製，而是用台灣小麥、認證酸麵包、指定原料與營運回饋形成共同底層，再讓每個地方長出自己的特色。</p></div>
     <figure class="system-map dark-map"><a href="assets/partner-expansion-system.svg" target="_blank" title="點擊開啟可放大 SVG"><img src="assets/partner-expansion-system.svg" alt="Blessings Bakery 社區型烘焙坊合作夥伴擴張系統完整架構圖"></a><figcaption>點擊圖片可在新分頁開啟向量版本並自由放大。</figcaption></figure>
-    <div class="map-notes dark-notes"><article><span>低門檻加入</span><h3>理念先於課程</h3><p>既有業者、場地與學員都可申請；科學做麵包能增加技術，但不是加入的必要條件。</p></article><article><span>以貢獻解鎖</span><h3>免費輔導換共同成長</h3><p>依銷售、指定原料採購與營運回饋，逐步解鎖黑麥、布里歐與更進階的研發支持。</p></article><article><span>擴張節奏</span><h3>10 → 50 → 100 → 200</h3><p>第 1 年驗證 10 家，第 3 年 50 家，第 5 年 100 家，第 10 年完成 200 家網絡。</p></article></div>
+    <div class="map-notes dark-notes"><article><span>申請門檻</span><h3>先體驗、再成為會員</h3><p>完成 Sourdough Taiwan 基礎體驗並維持付費會員資格，才進入一年期合作申請。</p></article><article><span>年度合作</span><h3>貢獻解鎖、每年檢視</h3><p>依採購、銷售、品管與回饋提供免費輔導及產品解鎖，每年重新確認合作資格。</p></article><article><span>擴張節奏</span><h3>10 → 50 → 100 → 200</h3><p>第 1 年驗證 10 家，第 3 年 50 家，第 5 年 100 家，第 10 年完成 200 家網絡。</p></article></div>
   </div></section>
 </main>
 <div data-footer></div><script src="site.js"></script>

diff --git a/styles.css b/styles.css
@@ -13,7 +13,7 @@ footer{padding:30px 0;background:#11100e;color:#958c80;font:500 10px/1.6 "DM Mon
 /* document pages */
 .pagehero{min-height:560px;display:flex;align-items:end;padding:100px 0 70px;color:white;background:linear-gradient(90deg,rgba(10,9,7,.86),rgba(10,9,7,.4)),url('assets/bread-craft.jpg') center 44%/cover}.pagehero h1{font-size:clamp(48px,7vw,92px);line-height:1.02;letter-spacing:-.055em;margin:18px 0 20px;max-width:920px}.pagehero .lede{font-size:19px;max-width:760px;color:#ded6ca}.pagehero .eyebrow{font:500 11px "DM Mono",monospace;letter-spacing:.13em;text-transform:uppercase;color:#d7bd9f}.pagehero .btn{border-color:#f6f1e9;color:#181612;background:#f6f1e9}.pagehero .btn.alt{color:#fff;background:transparent}.prose{max-width:940px}.prose h2{font-size:clamp(30px,3.5vw,46px);line-height:1.2;letter-spacing:-.035em;margin:80px 0 22px;padding-top:24px;border-top:1px solid var(--line)}.prose p{font-size:16px;color:#504a42}.callout{padding:28px 30px;background:var(--ink);color:#eee8df;border-left:5px solid var(--wheat)}.tablewrap{overflow:auto;margin:28px 0}table{width:100%;border-collapse:collapse;background:var(--white)}th,td{text-align:left;vertical-align:top;padding:16px;border:1px solid var(--line);font-size:14px}th{background:var(--cream);font-weight:700}.clause-grid{display:grid;grid-template-columns:1fr 1fr;gap:24px;padding:26px 32px;background:var(--cream);border:1px solid var(--line)}.ladder{border-top:1px solid var(--line)}.rung{display:grid;grid-template-columns:80px 1fr 1fr;gap:24px;padding:24px 0;border-bottom:1px solid var(--line)}.rung b{font:700 22px "Noto Serif TC",serif}.tag{color:var(--muted)}.grid{display:grid;grid-template-columns:repeat(3,1fr);gap:14px}.card{padding:26px;background:var(--white);border:1px solid var(--line)}.card h3{font-size:23px}.dark{background:var(--ink);color:#fff}.dark .card{background:#24211c;border-color:var(--dark-line)}.dark .card p{color:#bbb2a5}.num{font:500 10px "DM Mono",monospace;color:var(--wheat)}
 /* business maps */
-.wide-wrap{width:min(1500px,calc(100% - 48px))}.map-section{padding-top:96px}.system-map{margin:0;background:#efe6d9;border:1px solid var(--line);box-shadow:var(--shadow);overflow:hidden}.system-map a{display:block}.system-map img{width:100%;height:auto;transition:transform .25s ease}.system-map a:hover img{transform:scale(1.008)}.system-map figcaption{padding:12px 16px;border-top:1px solid var(--line);background:var(--white);font-size:12px;color:var(--muted);text-align:right}.dark-map{border-color:var(--dark-line)}.dark-map figcaption{background:#24211c;color:#bdb2a4;border-color:var(--dark-line)}.map-notes{display:grid;grid-template-columns:repeat(3,1fr);margin-top:32px;border-top:1px solid var(--line);border-left:1px solid var(--line)}.map-notes article{padding:28px;border-right:1px solid var(--line);border-bottom:1px solid var(--line)}.map-notes span{font:500 11px "DM Mono",monospace;letter-spacing:.1em;color:var(--toast)}.map-notes h3{font-size:24px;margin:26px 0 10px}.map-notes p{margin:0;color:var(--muted);font-size:14px}.dark-notes{border-color:var(--dark-line)}.dark-notes article{border-color:var(--dark-line)}.dark-notes span{color:#d7bd9f}.dark-notes p{color:#bdb2a4}
+.wide-wrap{width:min(1500px,calc(100% - 48px))}.map-section{padding-top:96px}.proposal-map-stack{display:grid;gap:56px;margin-top:48px}.proposal-map-stack+.actions{margin-top:32px}.system-map{margin:0;background:#efe6d9;border:1px solid var(--line);box-shadow:var(--shadow);overflow:hidden}.system-map a{display:block}.system-map img{display:block;width:100%;height:auto;transition:transform .25s ease}.system-map a:hover img{transform:scale(1.008)}.system-map figcaption{padding:12px 16px;border-top:1px solid var(--line);background:var(--white);font-size:12px;color:var(--muted);text-align:right}.dark-map{border-color:var(--dark-line)}.dark-map figcaption{background:#24211c;color:#bdb2a4;border-color:var(--dark-line)}.map-notes{display:grid;grid-template-columns:repeat(3,1fr);margin-top:32px;border-top:1px solid var(--line);border-left:1px solid var(--line)}.map-notes article{padding:28px;border-right:1px solid var(--line);border-bottom:1px solid var(--line)}.map-notes span{font:500 11px "DM Mono",monospace;letter-spacing:.1em;color:var(--toast)}.map-notes h3{font-size:24px;margin:26px 0 10px}.map-notes p{margin:0;color:var(--muted);font-size:14px}.dark-notes{border-color:var(--dark-line)}.dark-notes article{border-color:var(--dark-line)}.dark-notes span{color:#d7bd9f}.dark-notes p{color:#bdb2a4}
 /* modal preview */
 .preview-open{overflow:hidden}.preview-dialog{width:min(1180px,calc(100% - 32px));height:min(88vh,900px);padding:0;border:0;background:#fff;box-shadow:0 30px 100px rgba(0,0,0,.4)}.preview-dialog::backdrop{background:rgba(10,9,7,.78)}.preview-bar{height:58px;display:flex;align-items:center;justify-content:space-between;gap:16px;padding:0 18px;border-bottom:1px solid var(--line);background:var(--cream)}.preview-bar>div{display:flex;align-items:center;gap:8px}.preview-bar a,.preview-bar button{border:1px solid var(--ink);background:#fff;color:var(--ink);font:700 12px/1 inherit;padding:9px 12px;text-decoration:none;cursor:pointer}.preview-dialog iframe{display:block;width:100%;height:calc(100% - 58px);border:0;background:#fff}
 @media(max-width:900px){.section-head,.statement-grid,.image-story-grid,.investment-grid{grid-template-columns:1fr;gap:34px}.method-grid{grid-template-columns:1fr}.method-grid article{min-height:0}.method-grid h3{margin-top:38px}.deliverables{grid-template-columns:1fr 1fr}.timeline article{grid-template-columns:170px 1fr}.timeline p{grid-column:2}.resource-grid,.asset-list,.map-notes{grid-template-columns:1fr}.boundary-grid{grid-template-columns:1fr}.boundary-grid article,.boundary-grid article+article{padding:24px 0;border-left:0;border-bottom:1px solid var(--line)}.links{max-width:65vw;overflow:auto}.pagehero{min-height:500px}}

diff --git a/progress.html b/progress.html
@@ -6,7 +6,7 @@
   <header class="dashboard-header"><div class="wrap header-grid"><div><div class="eyebrow">SAM KNOWLEDGE POWER × BLESSINGS BAKERY</div><h1>執行進度儀表板</h1><p class="subtitle">Blessings Bakery 一年期知識事業共建計畫</p><div class="status-line"><span class="dot"></span><span>提案階段｜尚未啟動</span></div></div><div class="header-meta">最近更新<strong>尚未建立</strong>目前進度：準備期 M0</div></div></header>
   <main class="dashboard-main"><div class="wrap">
     <p class="section-label">數量進度總覽</p><section class="summary" id="metrics"></section>
-    <p class="section-label">每週進度摘要</p><section class="week-grid"><article class="week-card done"><h2>本週完成</h2><ul><li>新版內容、會員、課程與 200 家工坊架構已確認</li></ul></article><article class="week-card wait"><h2>等待客戶確認</h2><ul><li>確認合作主體與正式啟動日</li><li>確認正式簽署版本</li></ul></article><article class="week-card next"><h2>下一步安排</h2><ul><li>簽署契約並完成帳號交接</li><li>建立 YouTube、Facebook、名單、會員與課程數據基線</li></ul></article></section>
+    <p class="section-label">每週進度摘要</p><section class="week-grid"><article class="week-card done"><h2>本週完成</h2><ul><li>改為兩級 YouTube 會員與 Sourdough Taiwan 年度夥伴雙路線</li><li>取消獨立販售的快樂做麵包與科學做麵包</li></ul></article><article class="week-card wait"><h2>待下一次會議確認</h2><ul><li>250／400 元正式會員價格與權益</li><li>會員影片數量、舊學員操作與收益閉環</li></ul></article><article class="week-card next"><h2>下一步安排</h2><ul><li>盤點幸福烘焙既有 5–6 堂翻拍清單</li><li>確認書籍 QR、LINE 綁定與網站解鎖流程</li></ul></article></section>
     <p class="section-label">逐月交付明細</p><section class="months" id="progress-months"></section>
     <div class="legend"><span class="l-done">已完成</span><span class="l-active">進行中</span><span class="l-review">等待確認</span><span>尚未開始</span></div>
     <div class="footer-note"><strong>M0 免費準備期：</strong>2026 年 9 月辦理帳號與資料交接、基線盤點、啟動會議及第一季規劃，不計入正式交付。本頁於合作啟動後每週更新完成項目、成果連結、等待確認與下一步；客戶重新整理同一網址即可看到最新版。</div>
